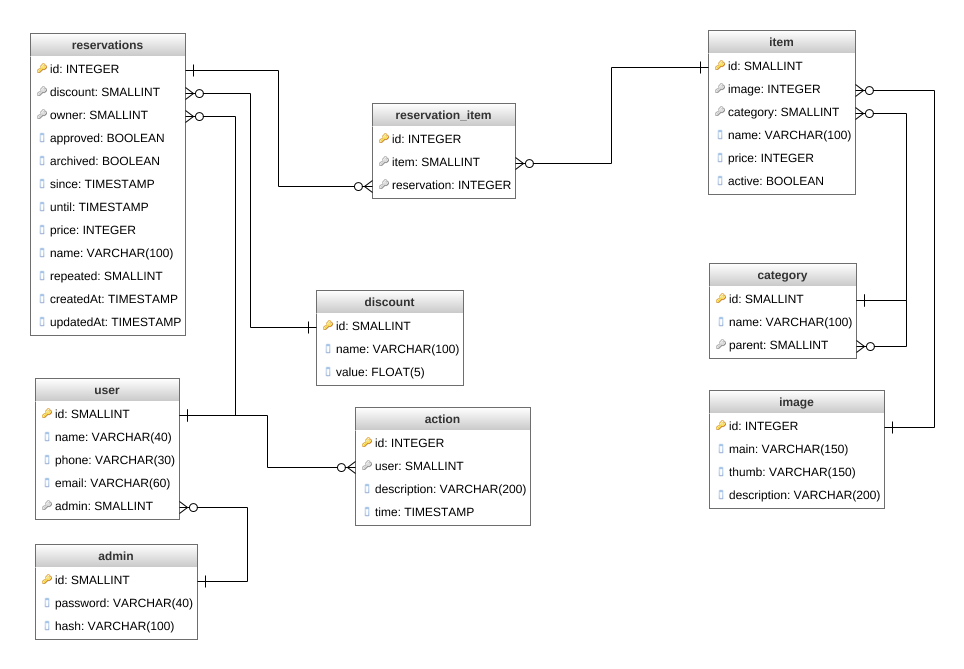
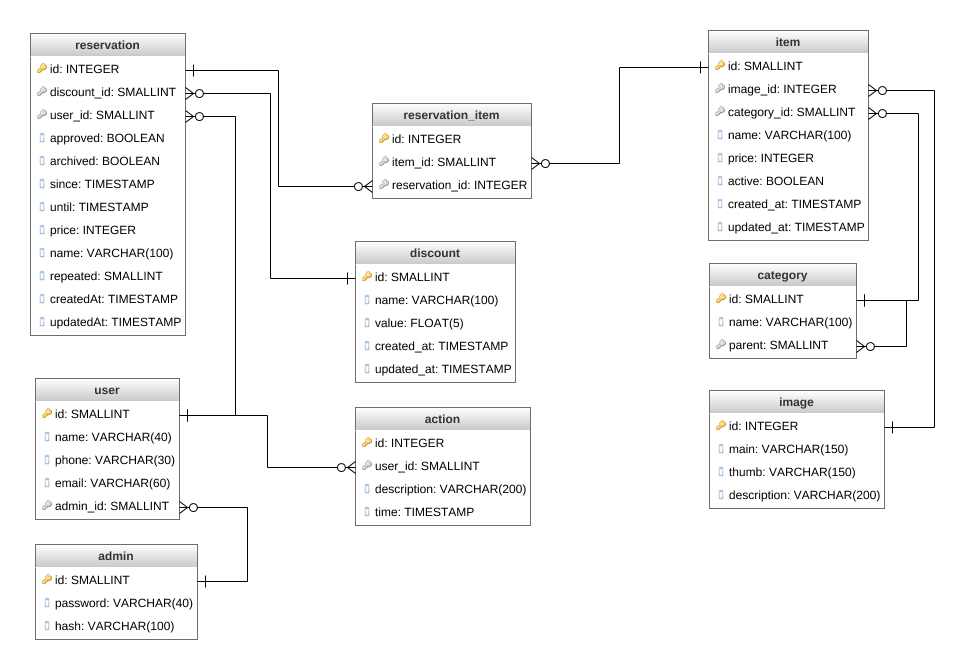
sequelize resolvers and connectors update, db update. Now fetching data through binding tables works

diff --git a/data/connectors.js b/data/connectors.js
@@ -1,36 +1,58 @@
 import Sequelize from 'sequelize'
 
-const db = new Sequelize('zkusebna_2.0', 'root', '', {
+const db = new Sequelize('zkusebna_2_0', 'root', '', {
 	dialect: 'mysql',
 })
 
 const ReservationModel = db.define('reservation', {
-	id: { type: Sequelize.INTEGER, primaryKey: true },
 	approved: { type: Sequelize.BOOLEAN},
 	archived: { type: Sequelize.BOOLEAN},
 	since: { type: Sequelize.DATE},
 	until: { type: Sequelize.DATE},
 	price: { type: Sequelize.INTEGER},
 	name: { type: Sequelize.STRING},
+	repeated: { type: Sequelize.INTEGER},
+}, {
+	freezeTableName: true,
+	//tableName: 'reservation',
+	underscored: true,
 });
 
 const ReservationItemModel = db.define('reservation_item', {
-	id: { type: Sequelize.INTEGER, primaryKey: true }
+	id: { type: Sequelize.INTEGER, primaryKey: true },
+}, {
+	freezeTableName: true,
+	timestamps: false,
+	underscored: true,
 })
 
 const ItemModel = db.define('item', {
-	id: { type: Sequelize.INTEGER, primaryKey: true },
 	name: { type: Sequelize.STRING },
 	price: { type: Sequelize.INTEGER },
 	active: { type: Sequelize.BOOLEAN },
+}, {
+	freezeTableName: true,
+	underscored: true,
 })
 
-ReservationModel.belongsToMany(ItemModel, {through: ReservationItemModel})
-ItemModel.belongsToMany(ReservationModel, {through: ReservationItemModel})
+const DiscountModel = db.define('discount', {
+	name: { type: Sequelize.STRING },
+	value: { type: Sequelize.FLOAT },
+}, {
+	freezeTableName: true,
+	underscored: true,
+})
+
+
+ReservationModel.belongsToMany(ItemModel, {through: ReservationItemModel, foreignKey: 'reservation_id'})
+ItemModel.belongsToMany(ReservationModel, {through: ReservationItemModel, foreignKey: 'item_id'})
+DiscountModel.hasMany(ReservationModel)
+ReservationModel.belongsTo(DiscountModel, {foreignKey: 'discount_id'})
 
 
 const Reservation = db.models.reservation;
 const ReservationItem = db.models.reservation_item;
 const Item = db.models.item;
+const Discount = db.models.discount;
 
-export { Reservation, ReservationItem, Item };
+export { Discount, Reservation, ReservationItem, Item };

diff --git a/data/schema.js b/data/schema.js
@@ -3,17 +3,17 @@ import resolvers from './resolvers'
 
 const typeDefs = `
 type Query {
-  reservation(id: Int!): Reservation
+  reservation(id: ID!): Reservation
   allReservation: [Reservation]
 }
 type Action {
-  id: Int!
+  id: ID!
   user: User
   description: String
   time: String
 }
 type Reservation {
-  id: Int!
+  id: ID!
   discount: Discount
   owner: User
   approved: Boolean
@@ -26,39 +26,37 @@ type Reservation {
   reservationItems: [ReservationItem]
 }
 type Discount {
-  id: Int!
+  id: ID!
   name: String
   value: Float
-  reservations: [Reservation]
 }
 type ReservationItem {
-  id: Int!
+  id: ID!
   item: Item
   reservation: Reservation
 }
 type Item {
-  id: Int!
+  id: ID!
   image: Image
   category: Category
   name: String
   price: Int
   active: Boolean
-  reservationItems: [ReservationItem]
 }
 type Image {
-  id: Int!
+  id: ID!
   main: String
   thumb: String
   description: String
 }
 type Category {
-  id: Int!
+  id: ID!
   name: String
   parent: Category
   categories: [Category]
 }
 type User {
-  id: Int!
+  id: ID!
   name: String
   phone: String
   email: String
@@ -67,7 +65,7 @@ type User {
   actions: [Action]
 }
 type Admin {
-  id: Int!
+  id: ID!
   password: String
   hash: String
 }

diff --git a/data/resolvers.js b/data/resolvers.js
@@ -1,21 +1,32 @@
-import { Reservation, ReservationItem, Item } from './connectors';
+import { Discount, Reservation, ReservationItem, Item } from './connectors';
 
 const resolvers = {
 	Query: {
 		reservation(_, args) {
-			return Reservation.find({ where: args });
+			return Reservation.find({ where: args,/* include: [ReservationItem, Item] */});
 		},
 		allReservation(_, args) {
 			return Reservation.findAll();
 		}
 	},
 	Reservation: {
+		discount(reservation) {
+			return Discount.find({ where: { id: reservation.discount_id } })
+		},
 		reservationItems(reservation) {
+			return ReservationItem.findAll({ where: { reservation_id: reservation.id } })
 		},
 	},
 	ReservationItem: {
-		item(item) {
+		item(reservation_item) {
+			return Item.find({ where: { id: reservation_item.item_id } })
+		},
+		reservation(reservation_item) {
+			return Reservation.find({ where: { id: reservation_item.reservation_id } })
 		}
+	},
+	Item: {
+
 	}
 };
 
